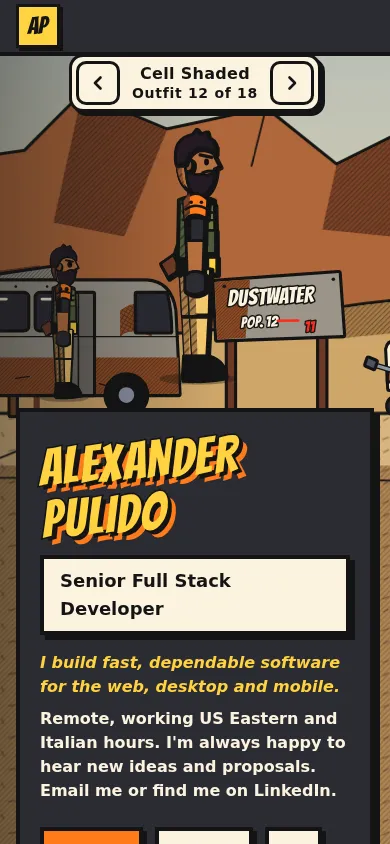
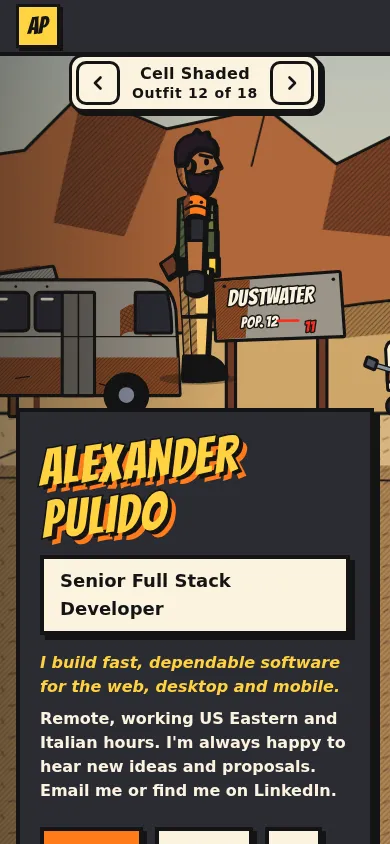
fix: in cell shaded the hero's stop keeps him out from under the intro card: on a wide screen he comes in once the card has scrolled up past his place, and on a phone, where his portrait fills the first screen, the stop plays without him, so he reads once; in Services the boss's chest stands closer,

Changed region(s): [[0.0923, 0.2773, 0.2154, 0.4929]]

diff --git a/src/components/themes/CellShaded/place.tsx b/src/components/themes/CellShaded/place.tsx
@@ -1,7 +1,7 @@
 import type { ReactNode } from 'react'
 import type { Profession } from '@/lib/cv/professions'
 import type { Playhead, SceneScript } from '@/lib/scroll/player'
-import { fx, lerp } from '../shared/stageNodes'
+import { fadeTo, fx, lerp } from '../shared/stageNodes'
 import type { StageWriter } from '../shared/theatre/useTheatre'
 import { Commando, FLOOR, placeCommando, type Dir, type Land, type Side } from './desert'
 import { Facing } from './hud'
@@ -81,6 +81,9 @@ export interface Stops {
   /** How much smaller the stop is drawn about his soles on a phone, where its art is wider than the usual
    *  (the vault's monster); none keeps PHONE_ZOOM. */
   phoneZoom?: number
+  /** How much of him shows at the stage's scroll `progress`, where a card of the page stands over his place
+   *  for part of it (the hero's intro card); none shows him whole. */
+  shown?: (progress: number, phone: boolean) => number
   /** Where each action ends on the move's t, one per action, the last 1. */
   ends: readonly number[]
   back: (input: PlaceInput) => ReactNode
@@ -129,11 +132,12 @@ export const stopsPlace = (stops: Stops): Place => ({
     const joints = root ? celJoints(root) : null
     const reply = stops.reply(stage, input)
     const { x, dir } = holdFor(stops, input)
-    return (_progress, _reached, play = START) => {
+    return (progress, _reached, play = START) => {
       const t = moveAt(stops.ends, play)
       reply(t)
       const frame = stops.move(input.profession, t)
       placeCommando(root, x + dir * frame.ahead, frame.lift, dir)
+      if (stops.shown) fadeTo(root, stops.shown(progress, input.phone))
       if (joints) setCelPose(joints, frame.pose)
     }
   },

diff --git a/src/components/themes/CellShaded/places/hero.tsx b/src/components/themes/CellShaded/places/hero.tsx
@@ -10,7 +10,10 @@ import { SQUINT, rest, stride } from '../pose'
 // the lone stop and he steps down from its door with nothing but what he wears; it pulls off in its dust. He
 // shades his eyes and looks up the road past the town's welcome sign. Our little robot rolls up out of the
 // haze, waves its arm, turns and rolls off toward town, and he goes after it. The hero keeps its own place
-// under its intro card.
+// under its intro card, and he shows only where neither the card nor his portrait is: on a wide screen the
+// card stands over his place at the top, so he comes in once it has scrolled up past him; on a phone his
+// portrait fills the first screen over the stop and the card scrolls up over his place after it, so there
+// the stop plays without him.
 
 const STOP = -190
 const SIGN = 380
@@ -20,6 +23,7 @@ const FOLLOWS = 190
 export const hero = stopsPlace({
   land: LANDS.badlands,
   hold: (phone) => ({ x: phone ? 640 : 1000, dir: 1 }),
+  shown: (progress, phone) => (phone ? 0 : ramp(progress, 0.28, 0.4)),
   script: [1700, 1300, 1800],
   ends: [0.34, 0.6, 1],
   back: () => (

diff --git a/src/components/themes/CellShaded/places/services.tsx b/src/components/themes/CellShaded/places/services.tsx
@@ -18,8 +18,9 @@ import { down, fireUp, pry, secondWind, shoot, stride } from '../pose'
 
 const MINE = 300
 const BOSS = { from: 400, at: 290 }
-const CHEST = 400
-const THRONE = 520
+// The chest stands close by, so on a phone his walk to it ends in the left half the section names.
+const CHEST = 300
+const THRONE = 430
 const CARD = { x: 270, y: -580 }
 const KNOCKED = -40
 const AT_CHEST = CHEST - 120
